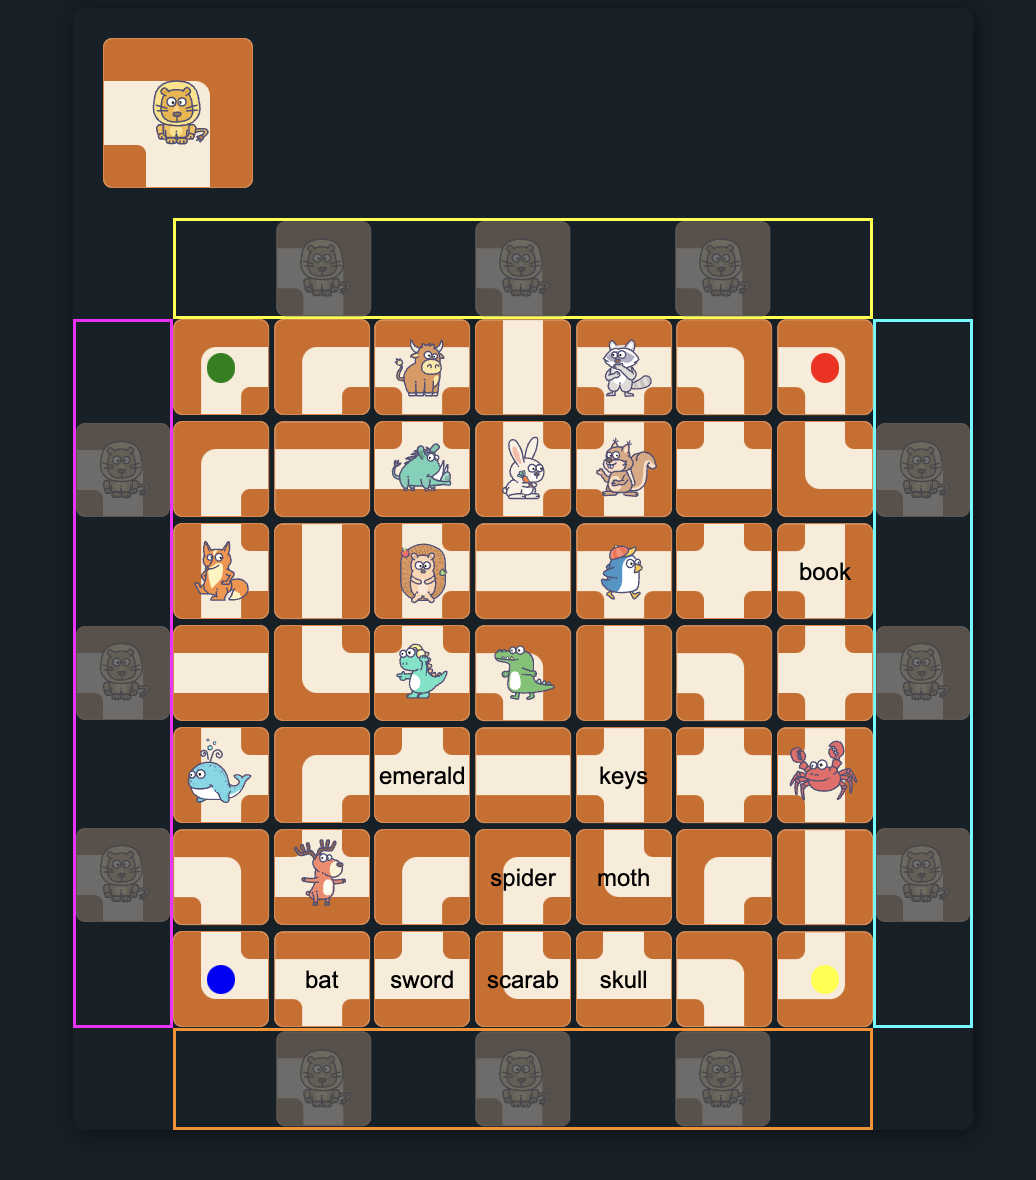
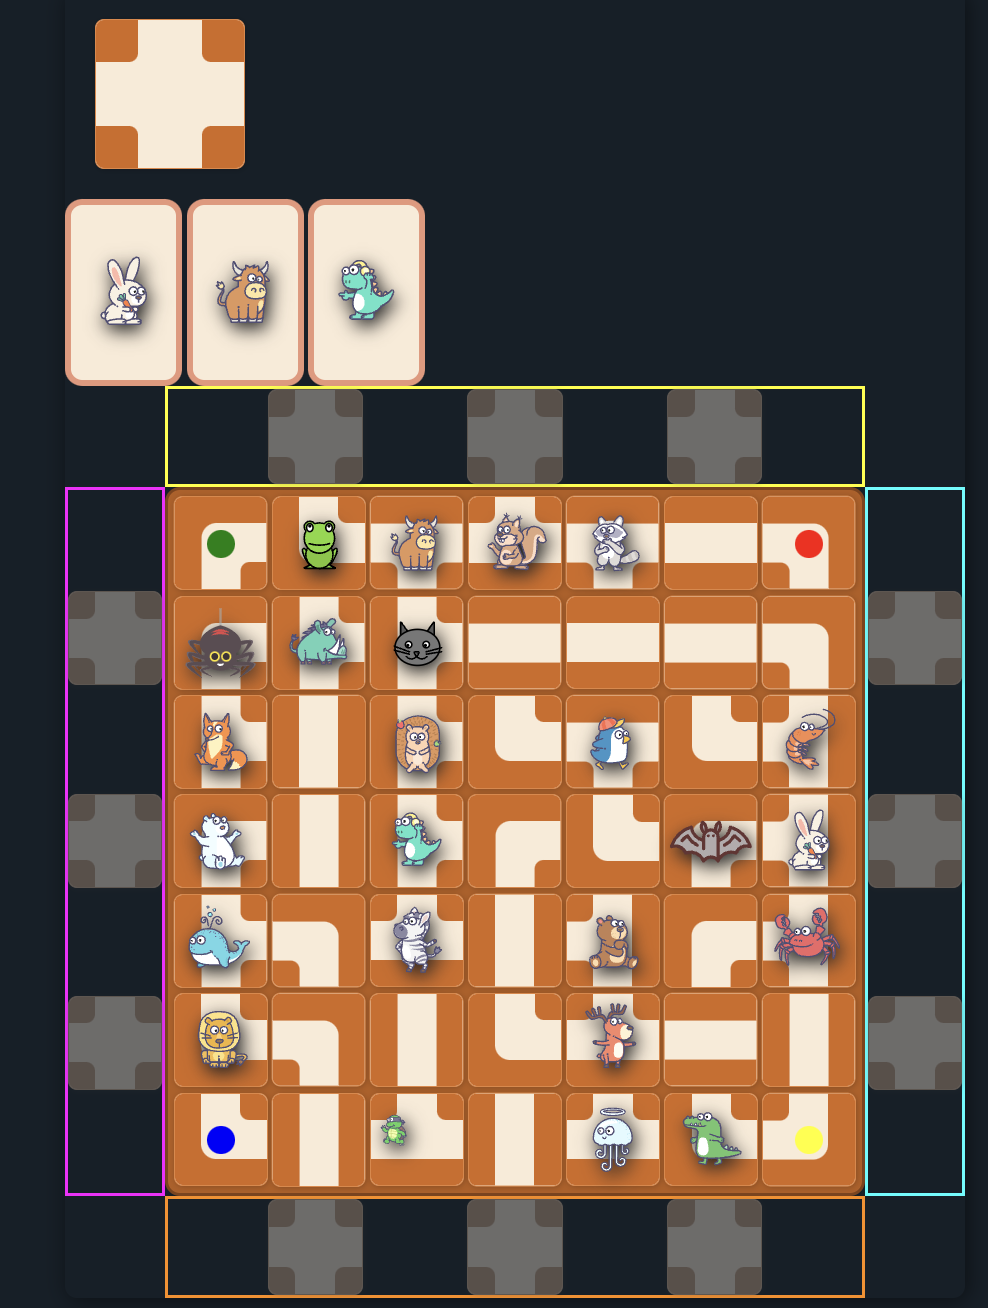
testing some cards

diff --git a/frontend/src/board/Board.tsx b/frontend/src/board/Board.tsx
@@ -2,6 +2,7 @@ import "./Board.scss";
 import React, { useCallback, useState } from "react";
 import { KeyedTileProps, TileMemoized } from "./tiles/Tile";
 import { BoardState, getRandomBoardTiles, MoveDirection, moveTiles, rotatePlayerTile } from "./boardUtils";
+import { CardMemoized } from "./cards/Card";
 
 const EdgeTile = (props: { playerTile: KeyedTileProps; onClick: () => void }) => (
   <div className="player-tile movable" onClick={props.onClick}>
@@ -48,6 +49,12 @@ const Board = () => {
         <div className="player-tile" onClick={() => handleRotatePlayerTile()}>
           <TileMemoized {...boardState.playerTile} key={boardState.playerTile.id} />
         </div>
+      </div>
+
+      <div className="card-stack">
+        <CardMemoized item="bunny" />
+        <CardMemoized item="cow" />
+        <CardMemoized item="trex" />
       </div>
 
       <div className="board-frame">

diff --git a/frontend/src/board/Board.scss b/frontend/src/board/Board.scss
@@ -78,4 +78,9 @@
   .player-tile .tile {
     transition: transform 0.3s ease-in-out;
   }
+
+  .card-stack {
+    display: flex;
+    grid-gap: 3px;
+  }
 }
